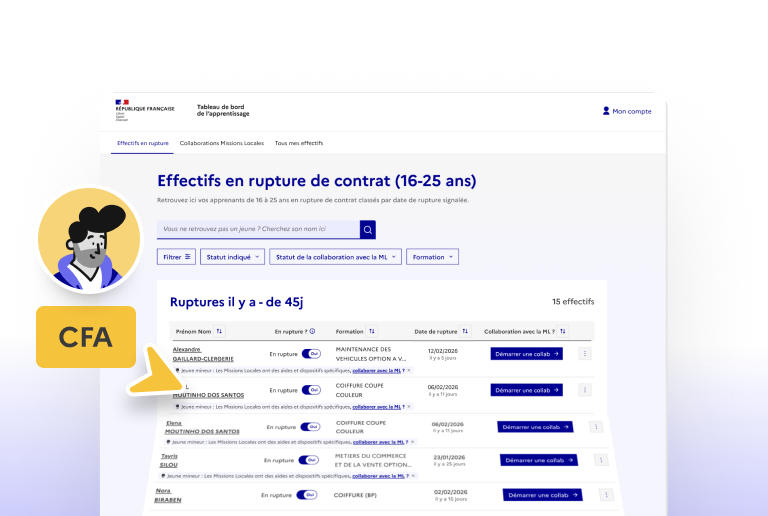
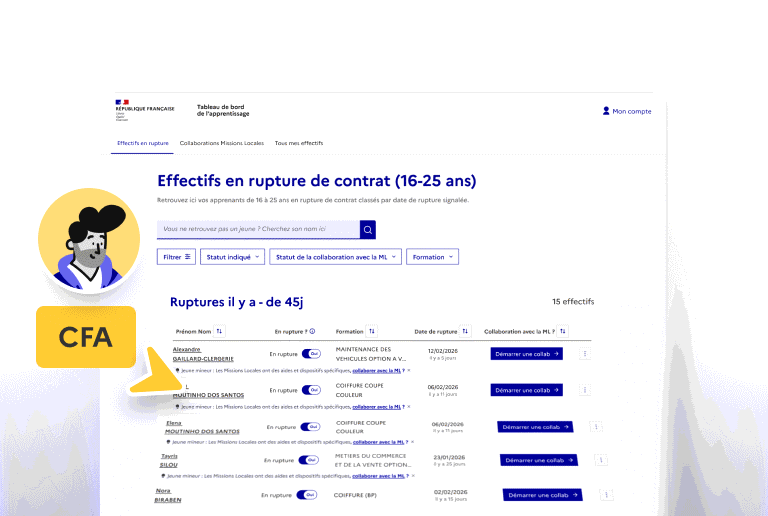
chore: compressions img

Changed region(s): [[0.8438, 0.7132, 1.0, 1.0], [0.0, 0.8682, 0.125, 1.0], [0.0938, 0.8682, 0.125, 0.8992]]

diff --git a/ui/app/(public)/accueil-territoire/_components/map-stats-section.module.scss b/ui/app/(public)/accueil-territoire/_components/map-stats-section.module.scss
@@ -13,7 +13,7 @@
   margin-left: 0.5rem;
   overflow: hidden;
   text-align: center;
-  background-image: url("/images/home/territoire/fond-carte.png");
+  background-image: url("/images/home/territoire/fond-carte.webp");
   background-position: center;
   background-size: cover;
   border-radius: 18px;
